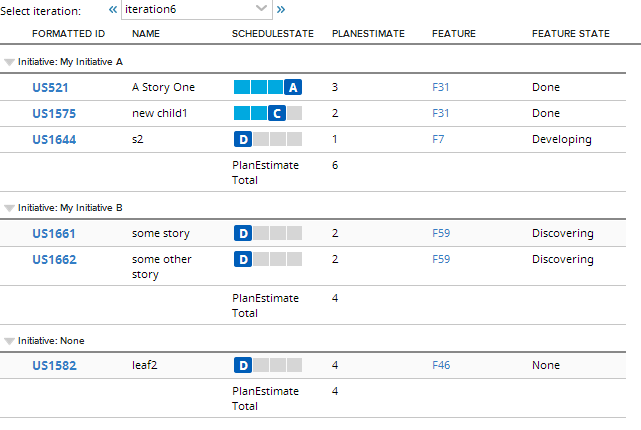
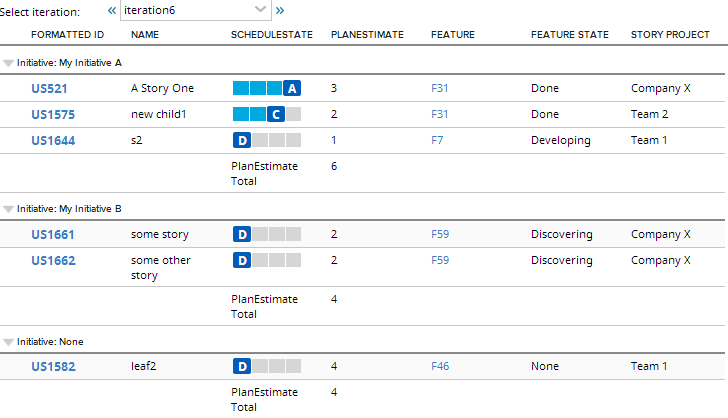
added project column

diff --git a/deploy/App.html b/deploy/App.html
@@ -7,7 +7,7 @@
 
     <script type="text/javascript">
         Rally.onReady(function () {
-                Ext.define("CustomApp",{extend:"Rally.app.TimeboxScopedApp",componentCls:"app",scopeType:"iteration",comboboxConfig:{fieldLabel:"Select iteration:",labelWidth:100,width:300},onScopeChange:function(){this._makeStore()},_makeStore:function(){var filter=Ext.create("Rally.data.wsapi.Filter",{property:"Feature",operator:"!=",value:null});filter=filter.and(this.getContext().getTimeboxScope().getQueryFilter()),Ext.create("Rally.data.wsapi.Store",{model:"UserStory",fetch:["ObjectID","FormattedID","Name","ScheduleState","Feature","PlanEstimate","Parent"],autoLoad:!0,filters:[filter],listeners:{load:this._onDataLoaded,scope:this}})},_onDataLoaded:function(store,records){if(0===records.length)this._notifyNoStories();else{this._notifier&&this._notifier.destroy();var that=this,promises=[];_.each(records,function(story){promises.push(that._getFeature(story,that))}),Deft.Promise.all(promises).then({success:function(results){that._stories=results,that._makeGrid()}})}},_getFeature:function(story,scope){var deferred=Ext.create("Deft.Deferred"),that=scope,featureOid=story.get("Feature").ObjectID;return Rally.data.ModelFactory.getModel({type:"PortfolioItem/Feature",scope:this,success:function(model,operation){model.load(featureOid,{scope:this,success:function(record,operation){var featureState=record.get("State")?record.get("State")._refObjectName:"None",featureFid=record.get("FormattedID"),featureParent=record.get("Parent")?record.get("Parent")._refObjectName:"None",storyRef=story.get("_ref"),storyOid=story.get("ObjectID"),storyFid=story.get("FormattedID"),storyPlanEstimate=story.get("PlanEstimate"),storyName=story.get("Name"),storyState=story.get("ScheduleState"),feature=story.get("Feature");result={_ref:storyRef,ObjectID:storyOid,FormattedID:storyFid,Name:storyName,PlanEstimate:storyPlanEstimate,ScheduleState:storyState,Feature:feature,FeatureState:featureState,FeatureID:featureFid,Initiative:featureParent},deferred.resolve(result)}})}}),deferred},_makeGrid:function(){var that=this;console.log(that._stories),that._grid&&that._grid.destroy();var gridStore=Ext.create("Rally.data.custom.Store",{data:that._stories,groupField:"Initiative",pageSize:1e3});that._grid=Ext.create("Rally.ui.grid.Grid",{itemId:"storyGrid",store:gridStore,features:[{ftype:"groupingsummary"}],enableBlockedReasonPopover:!1,minHeight:500,columnCfgs:[{text:"Formatted ID",dataIndex:"FormattedID",xtype:"templatecolumn",tpl:Ext.create("Rally.ui.renderer.template.FormattedIDTemplate")},{text:"Name",dataIndex:"Name"},{text:"ScheduleState",dataIndex:"ScheduleState",xtype:"templatecolumn",tpl:Ext.create("Rally.ui.renderer.template.ScheduleStateTemplate",{states:["Defined","In-Progress","Completed","Accepted"],field:{name:"ScheduleState"}}),summaryRenderer:function(){return"PlanEstimate Total"}},{text:"PlanEstimate",dataIndex:"PlanEstimate",summaryType:"sum"},{text:"Feature",dataIndex:"Feature",renderer:function(val,meta,record){return'<a href="https://rally1.rallydev.com/#/detail/portfolioitem/feature/'+record.get("Feature").ObjectID+'" target="_blank">'+record.get("Feature").FormattedID+"</a>"}},{text:"Feature State",dataIndex:"FeatureState"}]}),that.add(that._grid),that._grid.reconfigure(gridStore)},_notifyNoStories:function(){this._grid&&this._grid.destroy(),this._notifier&&this._notifier.destroy(),this._notifier=Ext.create("Ext.Container",{xtype:"container",itemId:"notifyContainer",html:"No Stories found matching selection."}),this.add(this._notifier)}});
+                Ext.define("CustomApp",{extend:"Rally.app.TimeboxScopedApp",componentCls:"app",scopeType:"iteration",comboboxConfig:{fieldLabel:"Select iteration:",labelWidth:100,width:300},onScopeChange:function(){this._makeStore()},_makeStore:function(){var filter=Ext.create("Rally.data.wsapi.Filter",{property:"Feature",operator:"!=",value:null});filter=filter.and(this.getContext().getTimeboxScope().getQueryFilter()),Ext.create("Rally.data.wsapi.Store",{model:"UserStory",fetch:["ObjectID","FormattedID","Name","ScheduleState","Feature","PlanEstimate","Parent","Project"],autoLoad:!0,filters:[filter],listeners:{load:this._onDataLoaded,scope:this}})},_onDataLoaded:function(store,records){if(0===records.length)this._notifyNoStories();else{this._notifier&&this._notifier.destroy();var that=this,promises=[];_.each(records,function(story){promises.push(that._getFeature(story,that))}),Deft.Promise.all(promises).then({success:function(results){that._stories=results,that._makeGrid()}})}},_getFeature:function(story,scope){var deferred=Ext.create("Deft.Deferred"),that=scope,featureOid=story.get("Feature").ObjectID;return Rally.data.ModelFactory.getModel({type:"PortfolioItem/Feature",scope:this,success:function(model,operation){model.load(featureOid,{scope:this,success:function(record,operation){var featureState=record.get("State")?record.get("State")._refObjectName:"None",featureFid=record.get("FormattedID"),featureParent=record.get("Parent")?record.get("Parent")._refObjectName:"None",storyRef=story.get("_ref"),storyOid=story.get("ObjectID"),storyFid=story.get("FormattedID"),storyPlanEstimate=story.get("PlanEstimate"),storyName=story.get("Name"),storyState=story.get("ScheduleState"),feature=story.get("Feature"),storyProject=story.get("Project")._refObjectName;result={_ref:storyRef,ObjectID:storyOid,FormattedID:storyFid,Name:storyName,PlanEstimate:storyPlanEstimate,ScheduleState:storyState,Feature:feature,FeatureState:featureState,FeatureID:featureFid,Initiative:featureParent,StoryProject:storyProject},deferred.resolve(result)}})}}),deferred},_makeGrid:function(){var that=this;console.log(that._stories),that._grid&&that._grid.destroy();var gridStore=Ext.create("Rally.data.custom.Store",{data:that._stories,groupField:"Initiative",pageSize:1e3});that._grid=Ext.create("Rally.ui.grid.Grid",{itemId:"storyGrid",store:gridStore,features:[{ftype:"groupingsummary"}],enableBlockedReasonPopover:!1,minHeight:500,columnCfgs:[{text:"Formatted ID",dataIndex:"FormattedID",xtype:"templatecolumn",tpl:Ext.create("Rally.ui.renderer.template.FormattedIDTemplate")},{text:"Name",dataIndex:"Name"},{text:"ScheduleState",dataIndex:"ScheduleState",xtype:"templatecolumn",tpl:Ext.create("Rally.ui.renderer.template.ScheduleStateTemplate",{states:["Defined","In-Progress","Completed","Accepted"],field:{name:"ScheduleState"}}),summaryRenderer:function(){return"PlanEstimate Total"}},{text:"PlanEstimate",dataIndex:"PlanEstimate",summaryType:"sum"},{text:"Feature",dataIndex:"Feature",renderer:function(val,meta,record){return'<a href="https://rally1.rallydev.com/#/detail/portfolioitem/feature/'+record.get("Feature").ObjectID+'" target="_blank">'+record.get("Feature").FormattedID+"</a>"}},{text:"Feature State",dataIndex:"FeatureState"},{text:"Story Project",dataIndex:"StoryProject"}]}),that.add(that._grid),that._grid.reconfigure(gridStore)},_notifyNoStories:function(){this._grid&&this._grid.destroy(),this._notifier&&this._notifier.destroy(),this._notifier=Ext.create("Ext.Container",{xtype:"container",itemId:"notifyContainer",html:"No Stories found matching selection."}),this.add(this._notifier)}});
 
             Rally.launchApp('CustomApp', {
                 name:"Stories by Iteration Grouped by Initiative",

diff --git a/App.js b/App.js
@@ -23,7 +23,7 @@ Ext.define('CustomApp', {
          
         Ext.create('Rally.data.wsapi.Store', {
                 model: 'UserStory',
-                fetch: ['ObjectID', 'FormattedID', 'Name', 'ScheduleState', 'Feature', 'PlanEstimate', 'Parent'],
+                fetch: ['ObjectID', 'FormattedID', 'Name', 'ScheduleState', 'Feature', 'PlanEstimate', 'Parent','Project'],
                 autoLoad: true,
                 filters: [filter],
                 listeners: {
@@ -79,6 +79,7 @@ Ext.define('CustomApp', {
                         var storyName  = story.get('Name');
                         var storyState = story.get('ScheduleState');
                         var feature = story.get('Feature');
+                        var storyProject = story.get('Project')._refObjectName;
                         
                         result = {
                                     "_ref"          : storyRef,
@@ -90,7 +91,8 @@ Ext.define('CustomApp', {
                                     "Feature"       : feature,
                                     "FeatureState"  : featureState,
                                     "FeatureID"     : featureFid,
-                                    "Initiative"    : featureParent
+                                    "Initiative"    : featureParent,
+                                    "StoryProject" : storyProject
                                 };
                         deferred.resolve(result);    
                     }
@@ -153,6 +155,9 @@ Ext.define('CustomApp', {
                 },
                 {
                     text: 'Feature State', dataIndex: 'FeatureState',
+                },
+                {
+                    text: 'Story Project', dataIndex: 'StoryProject',
                 }
             ]
         });

diff --git a/deploy/App-uncompressed.html b/deploy/App-uncompressed.html
@@ -32,7 +32,7 @@
          
         Ext.create('Rally.data.wsapi.Store', {
                 model: 'UserStory',
-                fetch: ['ObjectID', 'FormattedID', 'Name', 'ScheduleState', 'Feature', 'PlanEstimate', 'Parent'],
+                fetch: ['ObjectID', 'FormattedID', 'Name', 'ScheduleState', 'Feature', 'PlanEstimate', 'Parent','Project'],
                 autoLoad: true,
                 filters: [filter],
                 listeners: {
@@ -88,6 +88,7 @@
                         var storyName  = story.get('Name');
                         var storyState = story.get('ScheduleState');
                         var feature = story.get('Feature');
+                        var storyProject = story.get('Project')._refObjectName;
                         
                         result = {
                                     "_ref"          : storyRef,
@@ -99,7 +100,8 @@
                                     "Feature"       : feature,
                                     "FeatureState"  : featureState,
                                     "FeatureID"     : featureFid,
-                                    "Initiative"    : featureParent
+                                    "Initiative"    : featureParent,
+                                    "StoryProject" : storyProject
                                 };
                         deferred.resolve(result);    
                     }
@@ -162,6 +164,9 @@
                 },
                 {
                     text: 'Feature State', dataIndex: 'FeatureState',
+                },
+                {
+                    text: 'Story Project', dataIndex: 'StoryProject',
                 }
             ]
         });

diff --git a/README.md b/README.md
@@ -4,6 +4,8 @@ Stories by Iteration Grouped by Initiative
 ## Overview
 ![](pic.png)
 
+The grid shows only stories that have Feature parents.
+
 ## License
 This app is available AS IS. It is not supported by Rally support.
 AppTemplate is released under the MIT license.  See the file [LICENSE](./LICENSE) for the full text.
